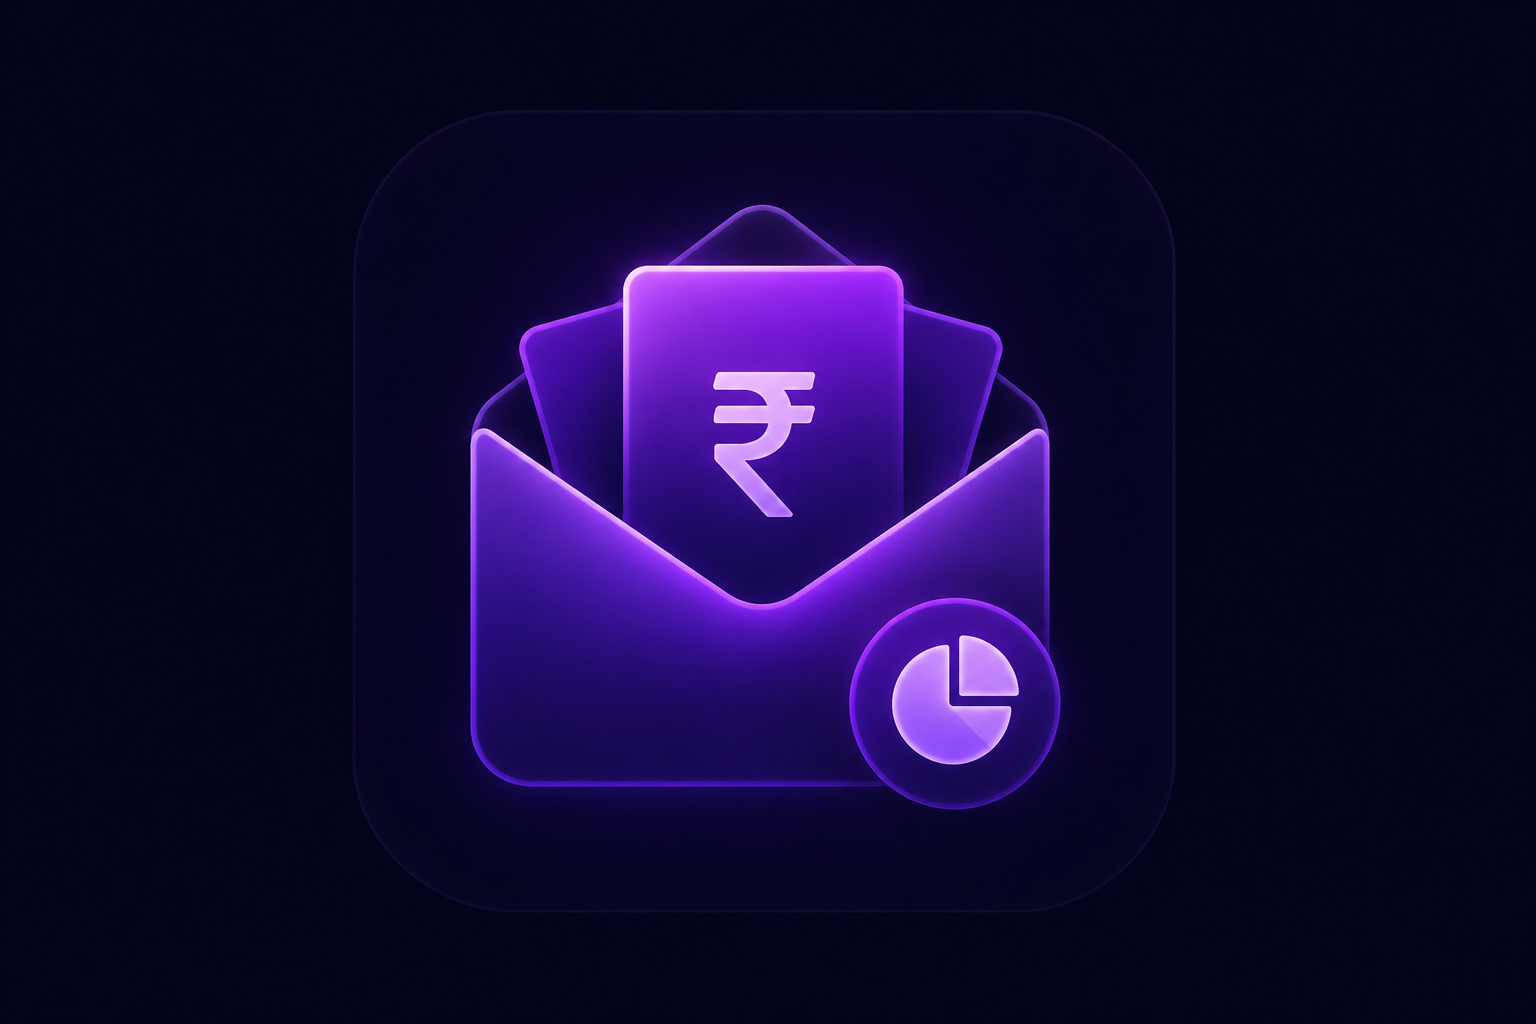
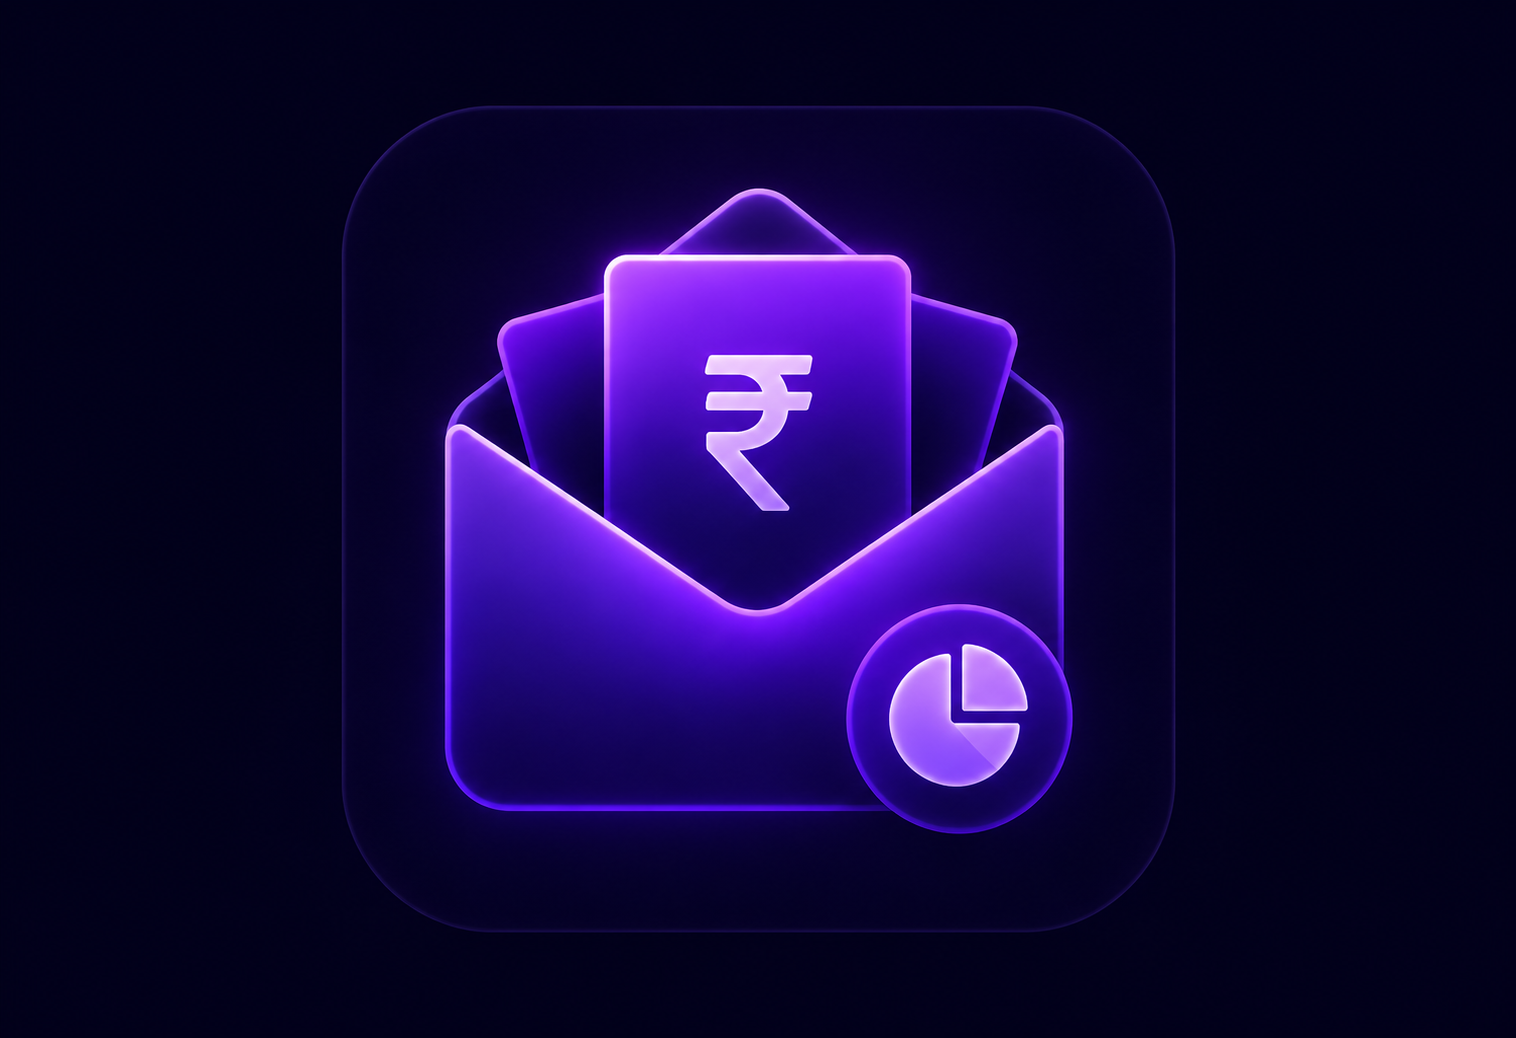
feat(landing): replace envelope method placeholder with actual screenshot

diff --git a/apps/landing/layouts/partials/moniqo-features.html b/apps/landing/layouts/partials/moniqo-features.html
@@ -40,12 +40,8 @@
 
       <!-- 2: Envelope method -->
       <div class="card p-7 group">
-        <div class="w-11 h-11 rounded-xl mb-5 flex items-center justify-center flex-shrink-0"
-             style="background:rgba(124,58,237,.15);border:1px solid rgba(124,58,237,.25);">
-          <svg class="w-5 h-5" style="color:#A855F7;" fill="none" stroke="currentColor" viewBox="0 0 24 24">
-            <path stroke-linecap="round" stroke-linejoin="round" stroke-width="2"
-                  d="M3 8l7.89 5.26a2 2 0 002.22 0L21 8M5 19h14a2 2 0 002-2V7a2 2 0 00-2-2H5a2 2 0 00-2 2v10a2 2 0 002 2z"/>
-          </svg>
+        <div class="w-11 h-11 rounded-xl mb-5 flex-shrink-0 overflow-hidden">
+          <img src="/images/feature-envelope-method.png" alt="Envelope budgeting" class="w-full h-full object-cover">
         </div>
         <h3 class="text-lg font-bold text-white mb-2">Envelope budgeting</h3>
         <p class="text-sm text-gray-400 leading-relaxed">

diff --git a/apps/landing/content/features.md b/apps/landing/content/features.md
@@ -37,9 +37,8 @@ badgeColor: "#7c3aed"
   <div class="grid grid-cols-1 gap-12 lg:grid-cols-2 lg:items-center">
     <div class="relative mt-8">
       <div class="absolute -inset-3 rounded-3xl opacity-10 blur-2xl" style="background-color:#7c3aed;"></div>
-      <div class="relative overflow-hidden rounded-2xl ring-1 ring-gray-200 min-h-44 flex flex-col items-center justify-center" style="background-color: color-mix(in srgb, #7c3aed 6%, white);">
-        <svg class="h-10 w-10 opacity-20" style="color:#7c3aed;" fill="none" stroke="currentColor" viewBox="0 0 24 24"><path stroke-linecap="round" stroke-linejoin="round" stroke-width="1" d="M3 8l7.89 5.26a2 2 0 002.22 0L21 8M5 19h14a2 2 0 002-2V7a2 2 0 00-2-2H5a2 2 0 00-2 2v10a2 2 0 002 2z"/></svg>
-        <span class="mt-4 text-xs font-medium" style="color:rgba(124,58,237,.35);">Envelope Method</span>
+      <div class="relative overflow-hidden rounded-2xl" style="border:1px solid rgba(124,58,237,.35);aspect-ratio:4/3;">
+        <img src="/images/feature-envelope-method.png" alt="Envelope Method" class="absolute inset-0 w-full h-full object-cover">
       </div>
     </div>
     <div class="lg:self-start">
